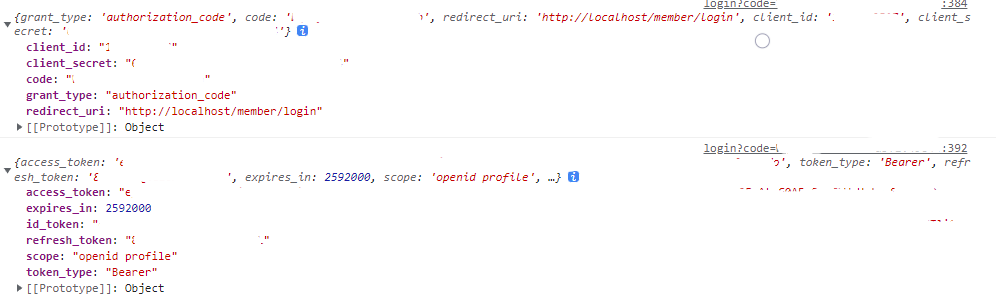
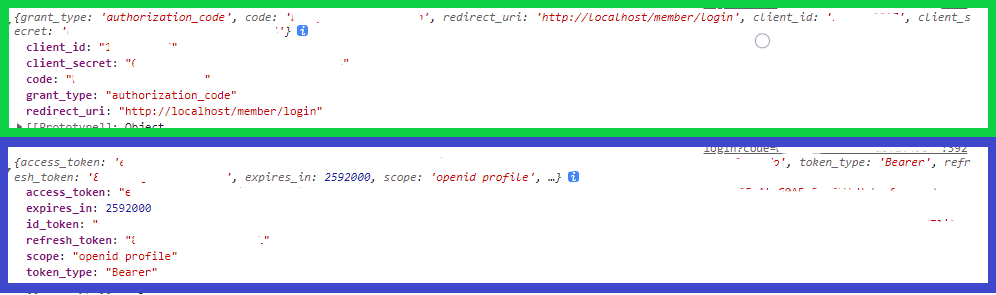
新增line登入內容

Changed region(s): [[0.0, 0.0, 1.0, 1.0]]

diff --git a/README.md b/README.md
@@ -265,8 +265,9 @@ public function blogs(Request $request)
 </ul>
 <hr>
 <h3><strong>第三方登入</strong></h3>
-<ul>* Google登入<br>
-利用官方文件的解說先在<a href="https://console.cloud.google.com/">Google Cloud Platform</a>建立API服務專案，然後利用javascript去撈取google會員資料。<br>
+<ul><strong>* Google登入</strong><br>
+利用官方文件的解說先在 <a href="https://console.cloud.google.com/">Google Cloud Platform</a> 建立API服務專案，然後利用javascript去撈取google會員資料。<br>
+* * *<br>
 建立登入按鈕及資料屬性:
 
 ```html
@@ -287,7 +288,7 @@ public function blogs(Request $request)
                 </div>
 ```
 
-<img src="./PIC/google1.png" alt="googleBtn">
+<img src="./PIC/google1.png" alt="googleBtn"><br>
 <img src="./PIC/google2.png" alt="googleBtn"><br>
 建立google api script，接收回傳值(綠框)並做解碼撈取資料(藍框):
 
@@ -315,8 +316,74 @@ public function blogs(Request $request)
 
 <img src="./PIC/google3.png" alt="googleBtn"><br>
 </ul>
-<ul>* Line登入<br>
+<ul><strong>* Line登入</strong><br>
+登入 <a href="https://developers.line.biz/zh-hant/">LINE Developers</a> 建立new channel ，建立完畢即可撰寫串接Line API的程式碼。<br>
+* * *<br>
+建立登入按鈕:
 
+```html
+<button id="lineLoginBtn" class="formBtnReset">LINE 登入</button>
+```
+
+<img src="./PIC/line1.png" alt="googleBtn"><br>
+<img src="./PIC/line2.png" alt="googleBtn"><br>
+成功登入後會拿到包含 code 的 token (下圖綠框):
+
+```javascript
+<script>
+    //第一步:點擊按鈕 > 會員登入撈取code(token)
+    $('#lineLoginBtn').on('click', function (e) {
+        let client_id = 'XXX'; //XXX依照實際使用的client_id填寫
+        let redirect_uri = 'http://localhost/member/login';
+        let link = 'https://access.line.me/oauth2/v2.1/authorize?';
+        link += 'response_type=code';
+        link += '&client_id=' + client_id;
+        link += '&redirect_uri=' + redirect_uri;
+        link += '&state=XXX';
+        link += '&scope=openid%20profile';
+        window.location.href = link;
+    });
+</script>
+```
+
+再次請求第二次API帶入 code 參數撈取 access_token (下圖藍框):
+
+```javascript
+<script>
+    const urlParams = new URLSearchParams(window.location.search);
+    if (urlParams.has('state') && urlParams.has('code')) {
+        let state = urlParams.get('state');
+        let code = urlParams.get('code');
+        if (state === 'XXX') {
+            //第二步:使用第一步撈取的token及其他參數來請求access_token
+            let url = new URL('https://api.line.me/oauth2/v2.1/token');
+            let urlBody = { //網址要帶的參數
+            grant_type: 'authorization_code',
+                        code: code, //第一步撈取的token
+                        redirect_uri: 'http://localhost/member/login',
+                        client_id: 'XXX', //依照實際使用的client_id填寫
+                        client_secret: 'XXX', //依照實際使用的client_secret填寫
+            };
+
+            $.ajax({
+                    type: "post",
+                    url: url,
+                    data: urlBody,
+                    success:function(res){
+                        let myObj = res;
+                        console.log(myObj);
+                        let accToken = myObj.access_token; //撈取回傳的access_token
+                        console.log(accToken);
+                    },
+                    error:function(err){console.log(err)},
+                });
+            }
+        }
+</script>
+```
+
+<img src="./PIC/line3.png" alt="googleBtn"><br>
+此 access_token 即可傳送到後端，由後端來依此 access_token 來做會員註冊存取等動作。
 </ul>
 <hr>
 
